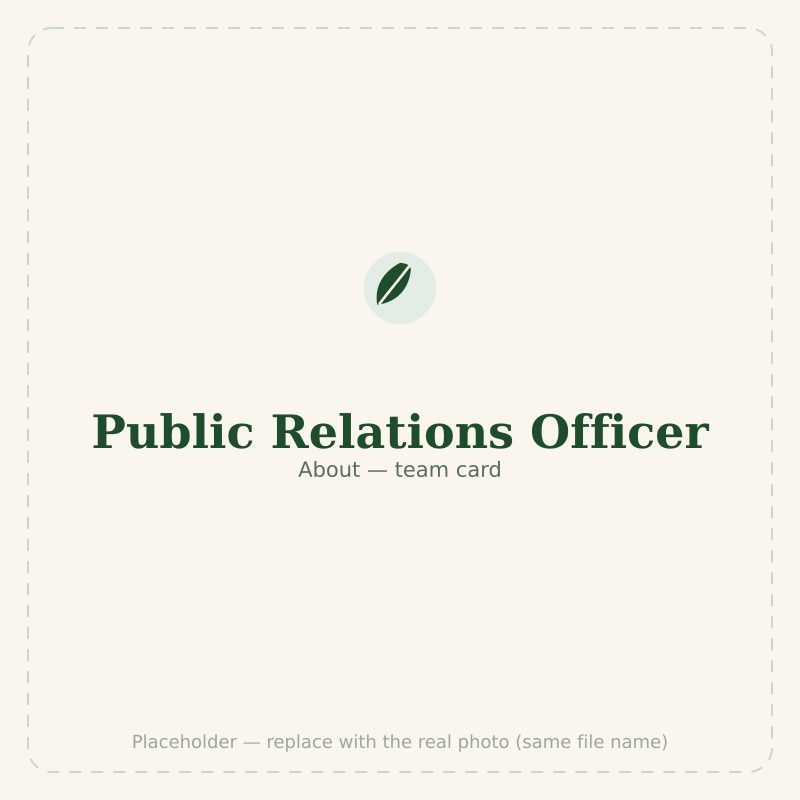
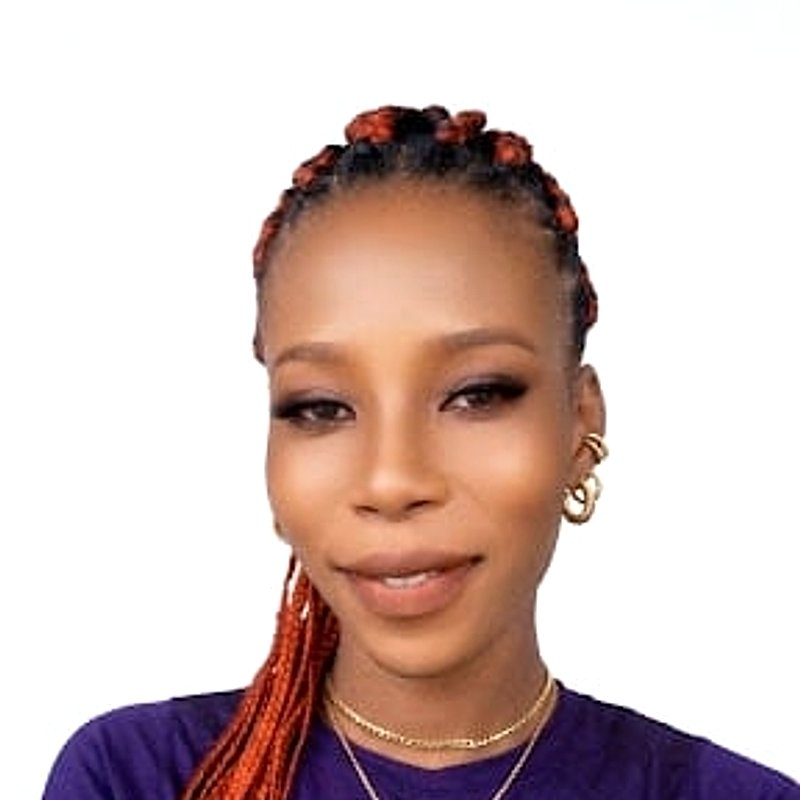
About: real PRO (Johnson Adesewa Motunrayo) photo and name

diff --git a/app/about/page.tsx b/app/about/page.tsx
@@ -28,9 +28,9 @@ export const metadata: Metadata = {
   alternates: { canonical: canonicalUrl("/about") },
 };
 
-/* Founder, Principal and Technical Director details are the real ones.
-   The Headmistress message and the PRO card are still placeholders
-   (TODO markers) waiting for the real name and photo.
+/* Founder, Principal, Technical Director and PRO details are the real
+   ones. Only the Headmistress message is still a placeholder (TODO
+   markers) waiting for the real name and photo.
    Portraits live in /public/images (4:5 or square). */
 
 const VALUES: Array<{ icon: LucideIcon; name: string; text: string }> = [
@@ -72,11 +72,11 @@ const TEAM: Array<{ name: string; role: string; line: string; image: string; alt
     alt: "Portrait of Mr. Oyewole John Oyewunmi, Technical Director",
   },
   {
-    name: "Mrs. Kemi Peters", // TODO: replace
+    name: "Johnson Adesewa Motunrayo",
     role: "Public Relations Officer",
     line: "The friendly voice that keeps the school and its families connected.",
     image: images.team.pro,
-    alt: "Portrait of the school's public relations officer",
+    alt: "Portrait of Johnson Adesewa Motunrayo, Public Relations Officer",
   },
 ];
 

diff --git a/public/images/README.md b/public/images/README.md
@@ -25,7 +25,7 @@ itself (no code changes needed).
 | `principal.jpg` 📷 | About — Principal's message | 900×1125 (4:5) or square | Real portrait: Adebayo Fateemah Adeshola, Principal |
 | `headmistress.jpg` 🖼 | About — Headmistress's message | 900×1125 (4:5) or square | **Placeholder** — awaiting the real portrait |
 | `team-technical-director.jpg` 📷 | About — team card | 800×800 (square) | Real portrait: Mr. Oyewole John Oyewunmi, Technical Director |
-| `team-pro.jpg` 🖼 | About — team card | 800×800 (square) | **Placeholder** — awaiting the real portrait |
+| `team-pro.jpg` 📷 | About — team card | 800×800 (square) | Real portrait: Johnson Adesewa Motunrayo, PRO (small source; a full-size original would sharpen it) |
 | `nursery.jpg` 📷 | Academics — Nursery card | 1000×750 (4:3) | The colourful colonnade beside the play yard |
 | `primary.jpg` 📷 | Academics — Primary card | 1000×750 (4:3) | The classroom wing and open yard |
 | `secondary.jpg` 📷 | Academics — Secondary card | 1000×750 (4:3) | The main building |
